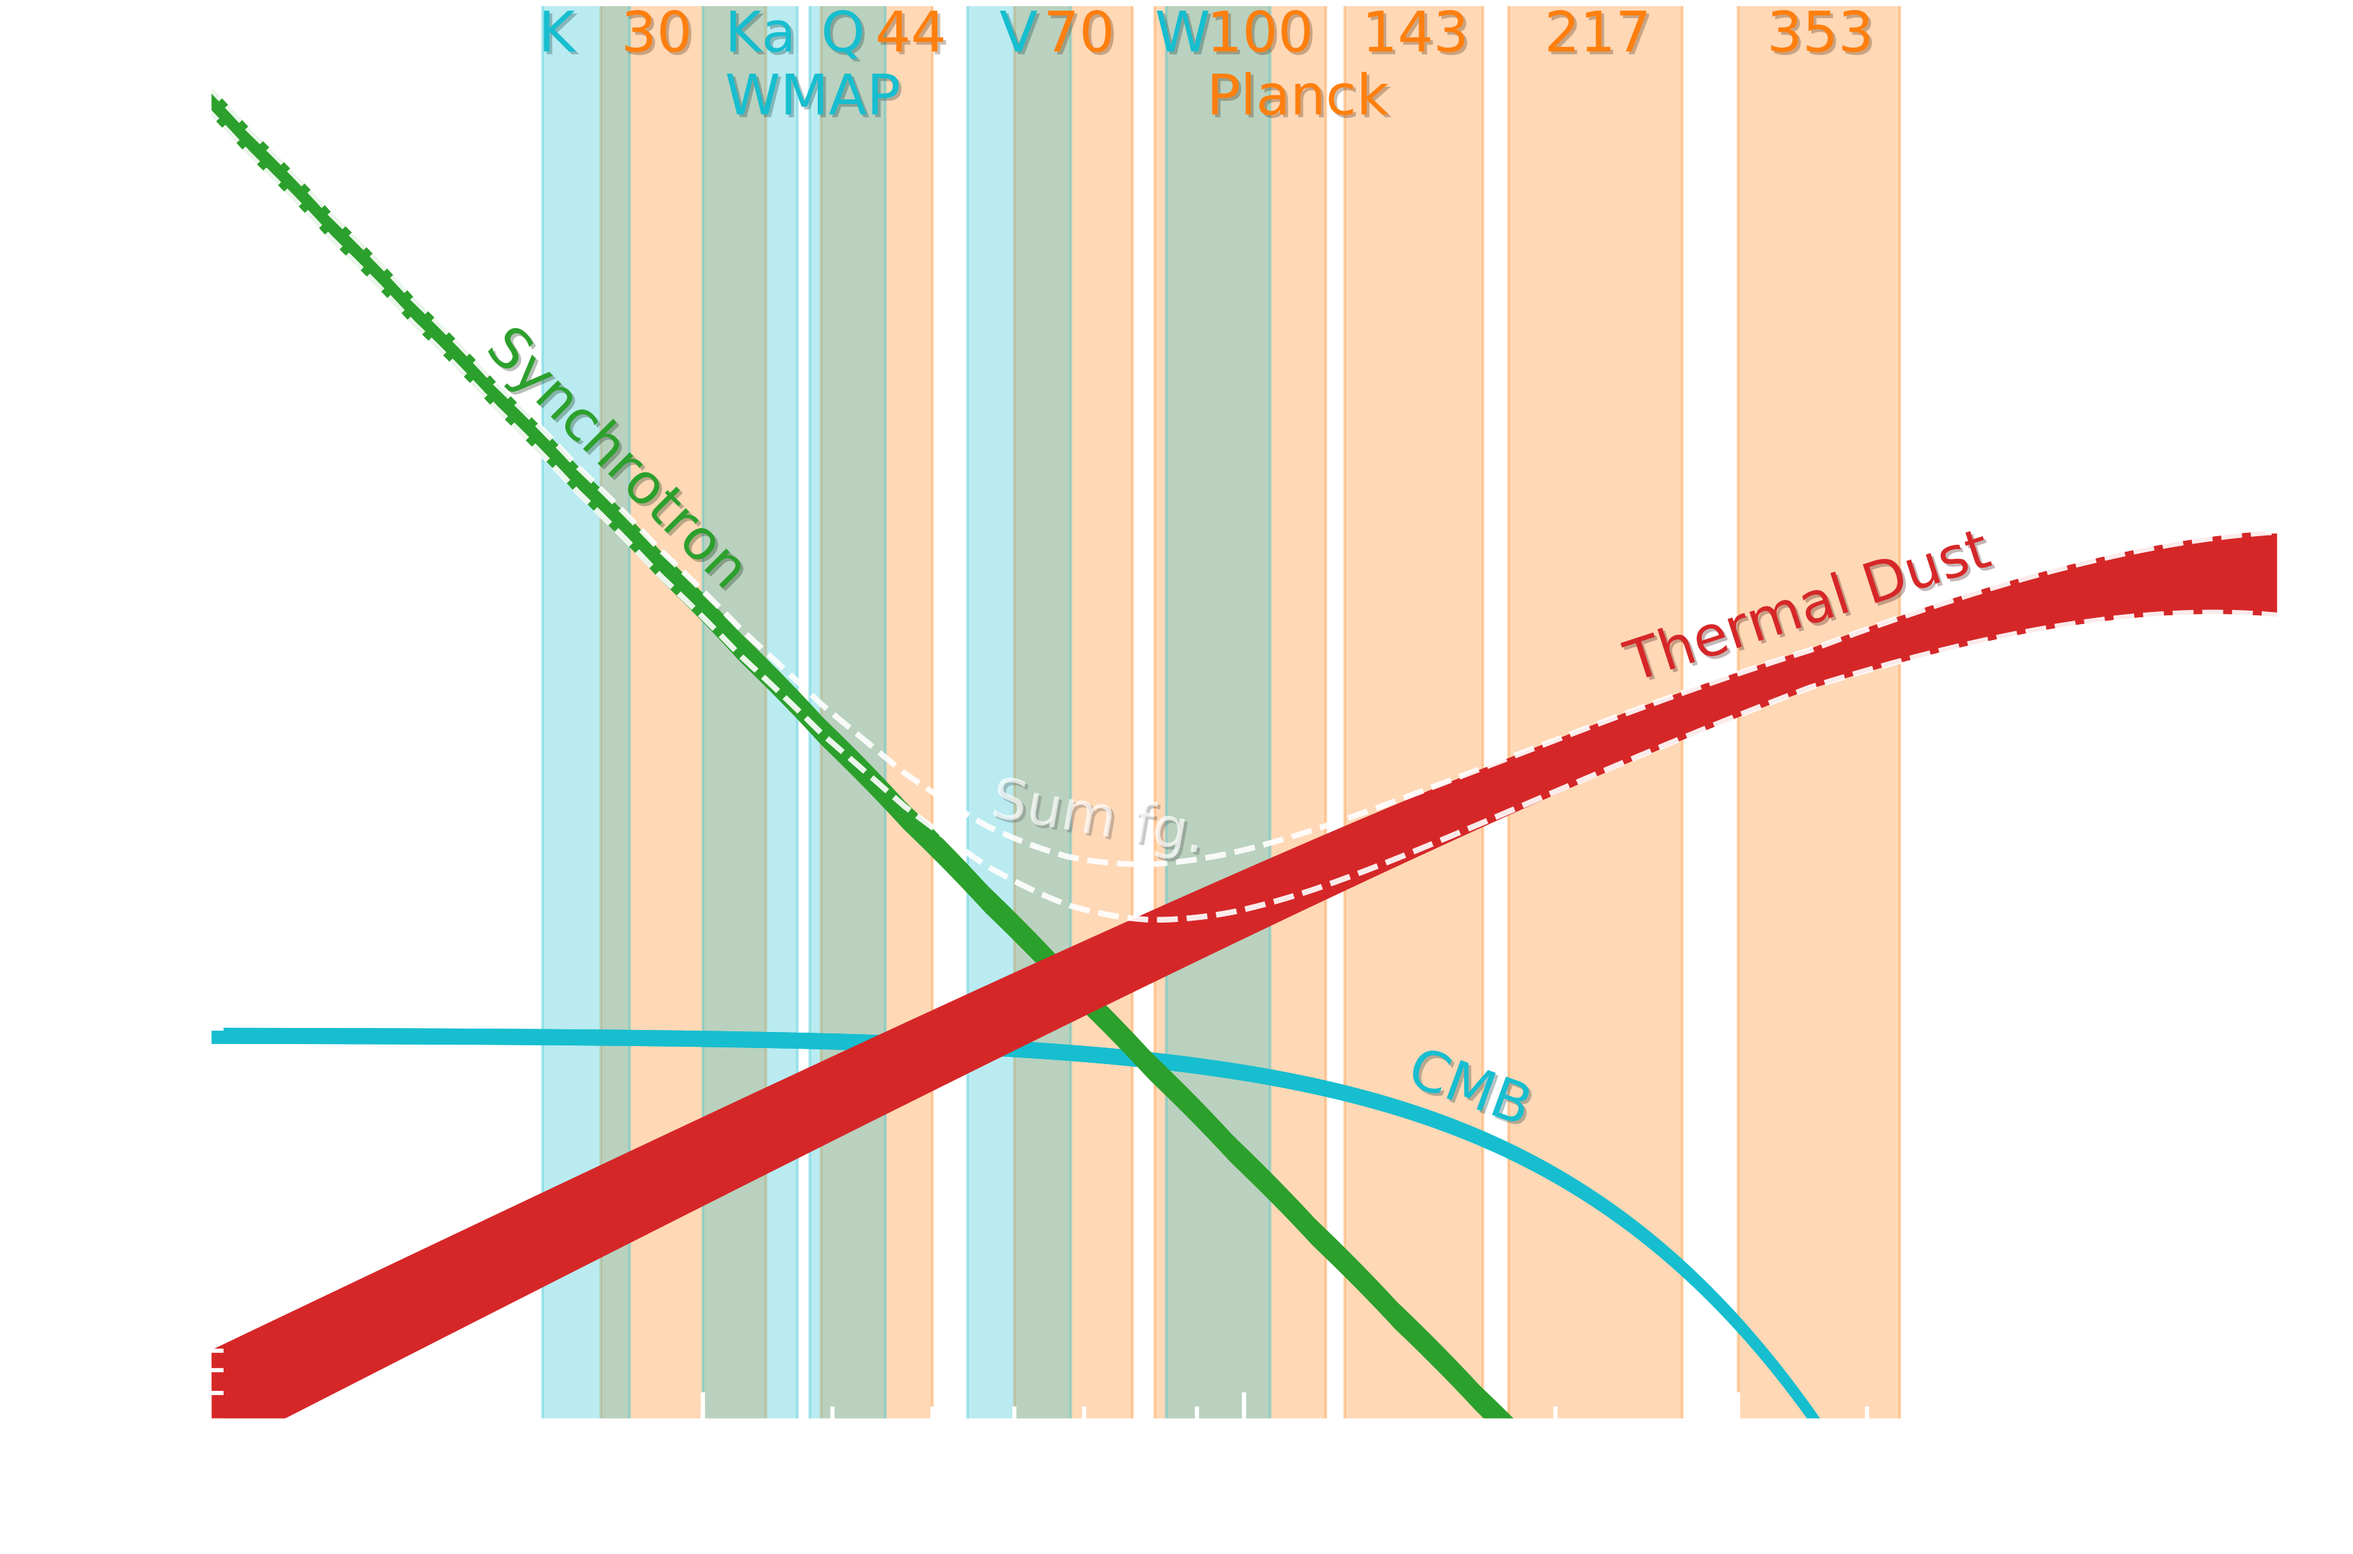
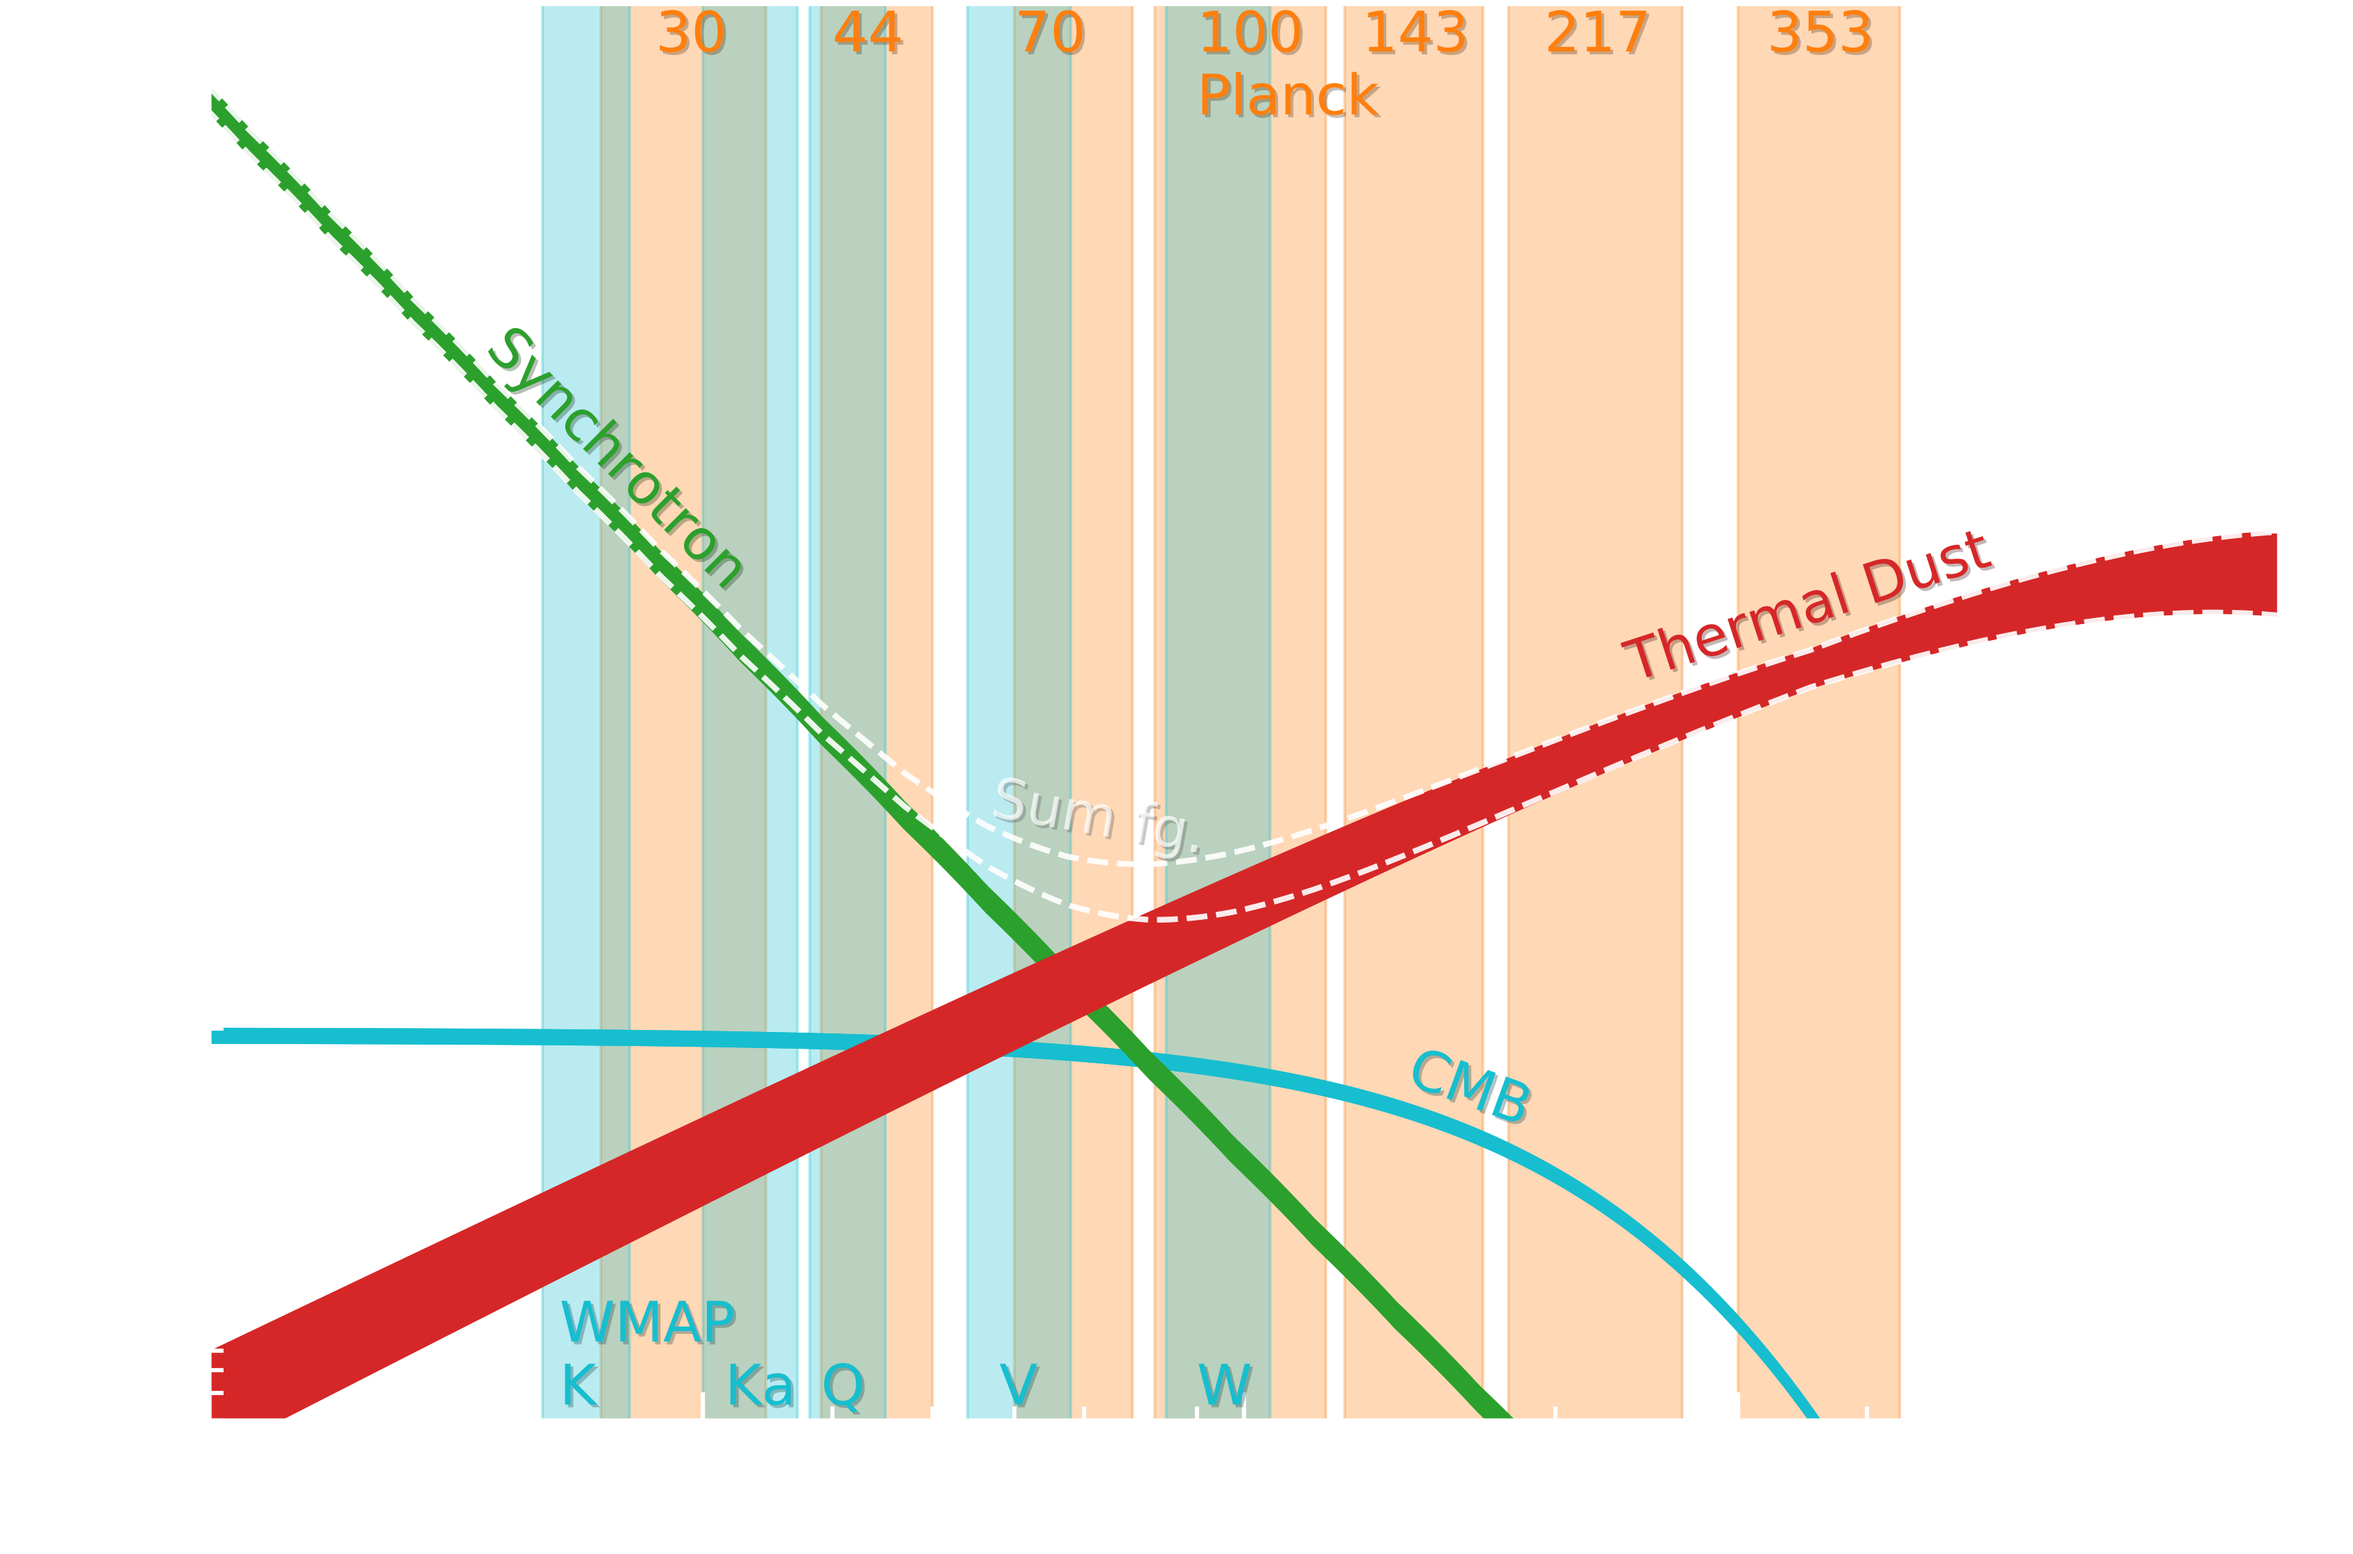
moved wmap

diff --git a/spectrum.py b/spectrum.py
@@ -379,7 +379,9 @@ band_range27  = [1.3945-0.064/2,1.3945+0.064/2]  #CHIPASS
 
 if long:
     yscaletext = 0.80
+    yscaletextup = 1.2
 else:
+    yscaletextup = 1.03
     yscaletext = 0.97
 
 # ---- Plotting single data ----
@@ -430,10 +432,10 @@ if quijote:
 
 # ---- Plotting Planck ----
 if planck:
-    ax2.text(27-2,ymax2*yscaletext,"30",           color='C1', va='top',alpha=1, size = freqtext, path_effects=[path_effects.withSimplePatchShadow(offset=(1, -1))])
-    ax2.text(42+2,ymax2*yscaletext,"44",           color='C1', va='top',alpha=1, size = freqtext, path_effects=[path_effects.withSimplePatchShadow(offset=(1, -1))])
-    ax2.text(64,  ymax2*yscaletext,"70",           color='C1', va='top',alpha=1, size = freqtext, path_effects=[path_effects.withSimplePatchShadow(offset=(1, -1))])
-    ax2.text(90+2,ymax2*yscaletext,"100\nPlanck", color='C1', va='top',alpha=1, size = freqtext, path_effects=[path_effects.withSimplePatchShadow(offset=(1, -1))])
+    ax2.text(27,ymax2*yscaletext,"30",           color='C1', va='top',alpha=1, size = freqtext, path_effects=[path_effects.withSimplePatchShadow(offset=(1, -1))])
+    ax2.text(44-4,ymax2*yscaletext,"44",           color='C1', va='top',alpha=1, size = freqtext, path_effects=[path_effects.withSimplePatchShadow(offset=(1, -1))])
+    ax2.text(64-4,  ymax2*yscaletext,"70",           color='C1', va='top',alpha=1, size = freqtext, path_effects=[path_effects.withSimplePatchShadow(offset=(1, -1))])
+    ax2.text(90,ymax2*yscaletext,"100\nPlanck", color='C1', va='top',alpha=1, size = freqtext, path_effects=[path_effects.withSimplePatchShadow(offset=(1, -1))])
     ax2.text(130, ymax2*yscaletext,"143",          color='C1', va='top',alpha=1, size = freqtext, path_effects=[path_effects.withSimplePatchShadow(offset=(1, -1))])
     ax2.text(195, ymax2*yscaletext,"217",          color='C1', va='top',alpha=1, size = freqtext, path_effects=[path_effects.withSimplePatchShadow(offset=(1, -1))])
     ax2.text(320, ymax2*yscaletext,"353",          color='C1', va='top',alpha=1, size = freqtext, path_effects=[path_effects.withSimplePatchShadow(offset=(1, -1))])
@@ -466,11 +468,11 @@ if planck:
 
 # ---- Plotting WMAP ----
 if wmap:
-    ax2.text(22.8 -2  , ymax2*yscaletext,"K", color='C9' ,va='top',alpha=1, size = freqtext, path_effects=[path_effects.withSimplePatchShadow(offset=(1, -1))])
-    ax2.text(31.5   ,   ymax2*yscaletext,"Ka\nWMAP ",        color='C9', va='top',alpha=1, size = freqtext, path_effects=[path_effects.withSimplePatchShadow(offset=(1, -1))])
-    ax2.text(39.  ,     ymax2*yscaletext,"Q",         color='C9' ,va='top',alpha=1, size = freqtext, path_effects=[path_effects.withSimplePatchShadow(offset=(1, -1))])
-    ax2.text(58.    ,   ymax2*yscaletext,"V",         color='C9' ,va='top',alpha=1, size = freqtext, path_effects=[path_effects.withSimplePatchShadow(offset=(1, -1))])
-    ax2.text(90.-8   ,  ymax2*yscaletext,"W",         color='C9' ,va='top',alpha=1, size = freqtext, path_effects=[path_effects.withSimplePatchShadow(offset=(1, -1))])
+    ax2.text(22.8  -1, ymin*yscaletextup,"WMAP\nK", color='C9' ,va='bottom',alpha=1, size = freqtext, path_effects=[path_effects.withSimplePatchShadow(offset=(1, -1))])
+    ax2.text(31.5   ,   ymin*yscaletextup,"Ka ",        color='C9', va='bottom',alpha=1, size = freqtext, path_effects=[path_effects.withSimplePatchShadow(offset=(1, -1))])
+    ax2.text(39.  ,     ymin*yscaletextup,"Q",         color='C9' ,va='bottom',alpha=1, size = freqtext, path_effects=[path_effects.withSimplePatchShadow(offset=(1, -1))])
+    ax2.text(58.    ,   ymin*yscaletextup,"V",         color='C9' ,va='bottom',alpha=1, size = freqtext, path_effects=[path_effects.withSimplePatchShadow(offset=(1, -1))])
+    ax2.text(90.   ,  ymin*yscaletextup,"W",         color='C9' ,va='bottom',alpha=1, size = freqtext, path_effects=[path_effects.withSimplePatchShadow(offset=(1, -1))])
 
     ax.axvspan(band_range3[0],band_range3[1],color='C9',alpha=baralpha, zorder=0,label='WMAP')
     ax.axvspan(band_range4[0],band_range4[1],color='C9',alpha=baralpha, zorder=0)
